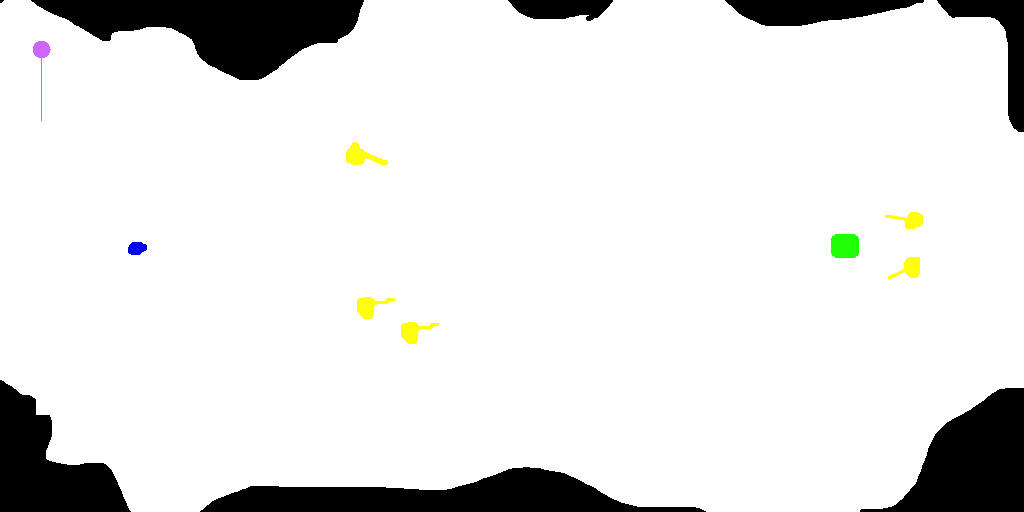
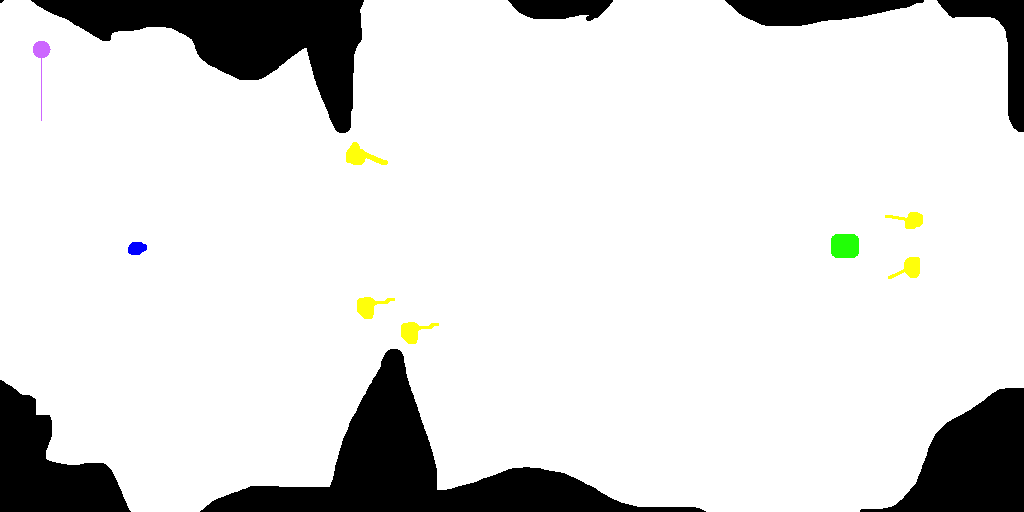
misc

Changed region(s): [[0.3125, 0.6875, 0.4375, 0.9688], [0.2812, 0.0312, 0.375, 0.2812]]

diff --git a/ld53/stone.js b/ld53/stone.js
@@ -626,9 +626,15 @@ EM.registerSystem([StoneTowerDef, RenderableDef, WorldFrameDef], [PhysicsResults
             }
             if (totalKnockedOut) {
                 tower.stoneTower.currentBricks -= totalKnockedOut;
-                for (let row of tower.stoneTower.rows) {
-                    if (row.bricksKnockedOut === row.totalBricks) {
-                        destroyTower(tower);
+                if (tower.stoneTower.currentBricks / tower.stoneTower.totalBricks <
+                    MIN_BRICK_PERCENT) {
+                    destroyTower(tower);
+                }
+                else {
+                    for (let row of tower.stoneTower.rows) {
+                        if (row.bricksKnockedOut === row.totalBricks) {
+                            destroyTower(tower);
+                        }
                     }
                 }
                 res.renderer.renderer.stdPool.updateMeshVertices(tower.renderable.meshHandle, tower.stoneTower.mesh);

diff --git a/smol/map-loader.js b/smol/map-loader.js
@@ -23,6 +23,8 @@ export const MapPaths = [
 export const MapHelp = {
     "tutorial-attack-the-towers": "the dock is straight ahead. use your cannons on these towers!",
     "tutorial-dock-under-cannon": "sail to the green dock to deliver your cargo!",
+    "dont-go-right": "shoot out a complete ring of bricks to quickly destroy a tower!",
+    "thread-needle": "smooth sailing! remember: fighting isn't always the answer!",
 };
 const MapBytesLoaderDef = EM.defineComponent("mapBytesLoader", () => {
     return {

diff --git a/smol/ship.js b/smol/ship.js
@@ -189,7 +189,7 @@ async function createRudder(em) {
     // -Math.PI / 8,
     -Math.PI / 12, 1.6, 
     // V(0, 20, 50),
-    V(0, 10, 30), true, 1, Math.PI, "W/S: unfurl/furl, A/D: turn, E: drop rudder");
+    V(0, 10, 30), true, 1, Math.PI, "W/S: unfurl/furl sail, A/D: turn, E: drop rudder");
     ent.turret.maxPitch = 0;
     ent.turret.minPitch = 0;
     ent.turret.maxYaw = Math.PI / 6;

diff --git a/ld53/game-ld53.js b/ld53/game-ld53.js
@@ -420,7 +420,7 @@ export async function initLD53(em, hosting) {
     }, "turnMast");
     EM.requireSystem("turnMast");
     const { text } = await EM.whenResources(TextDef);
-    text.lowerText = "W/S: unfurl/furl, A/D: turn, E: drop rudder";
+    text.lowerText = "W/S: unfurl/furl sail, A/D: turn, E: drop rudder";
     if (DBG_PLAYER)
         text.lowerText = "";
     // Spawn towers
